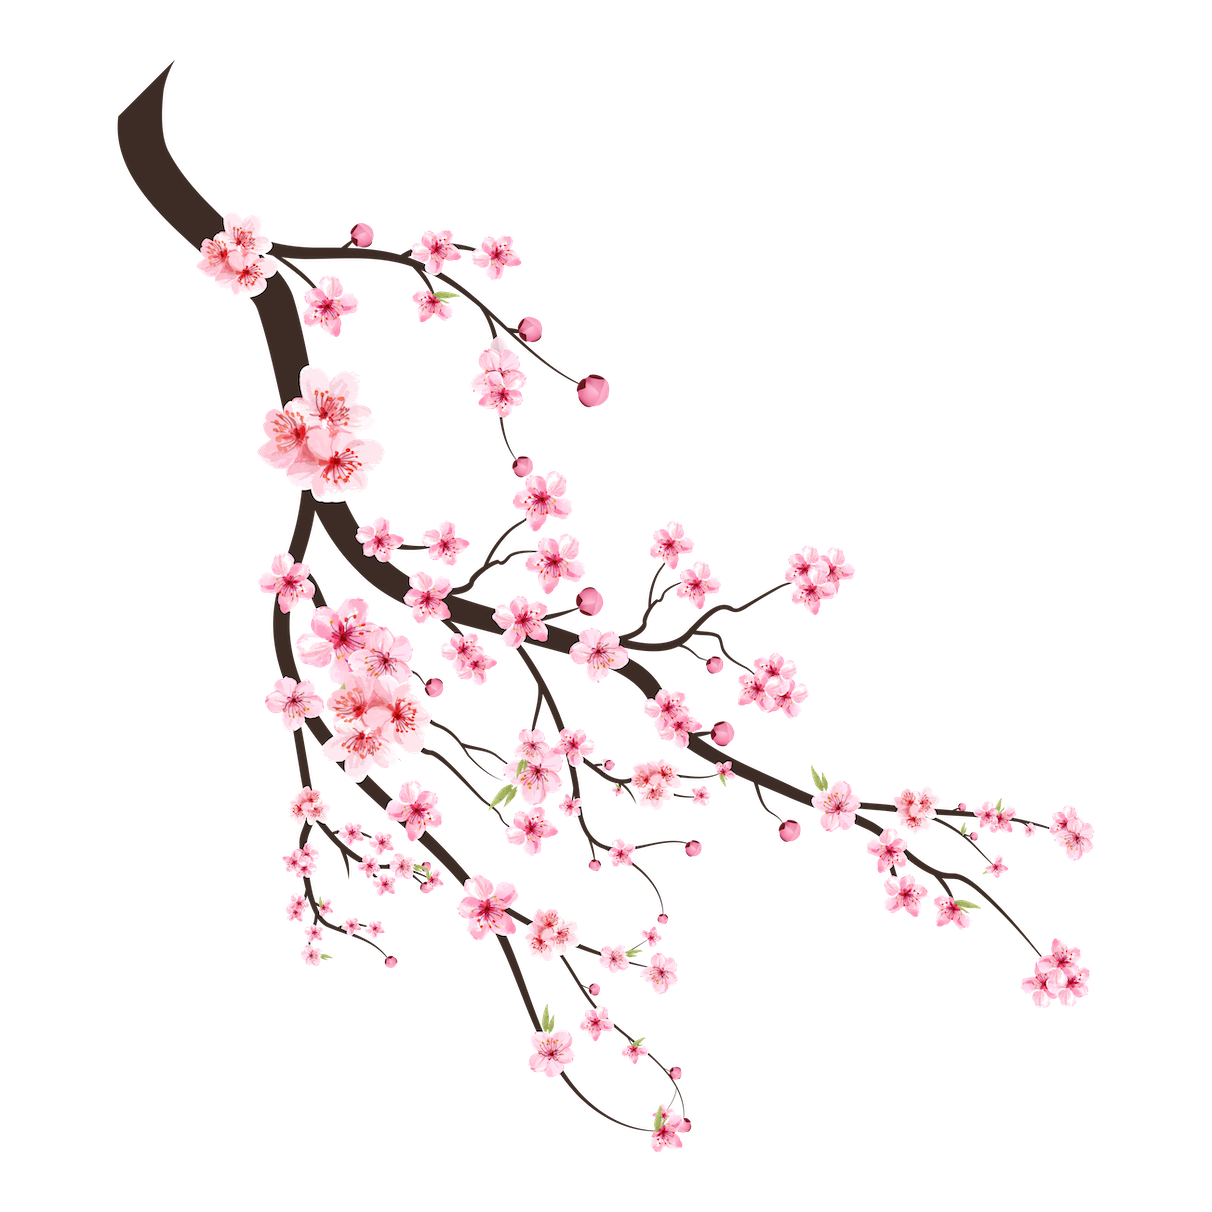
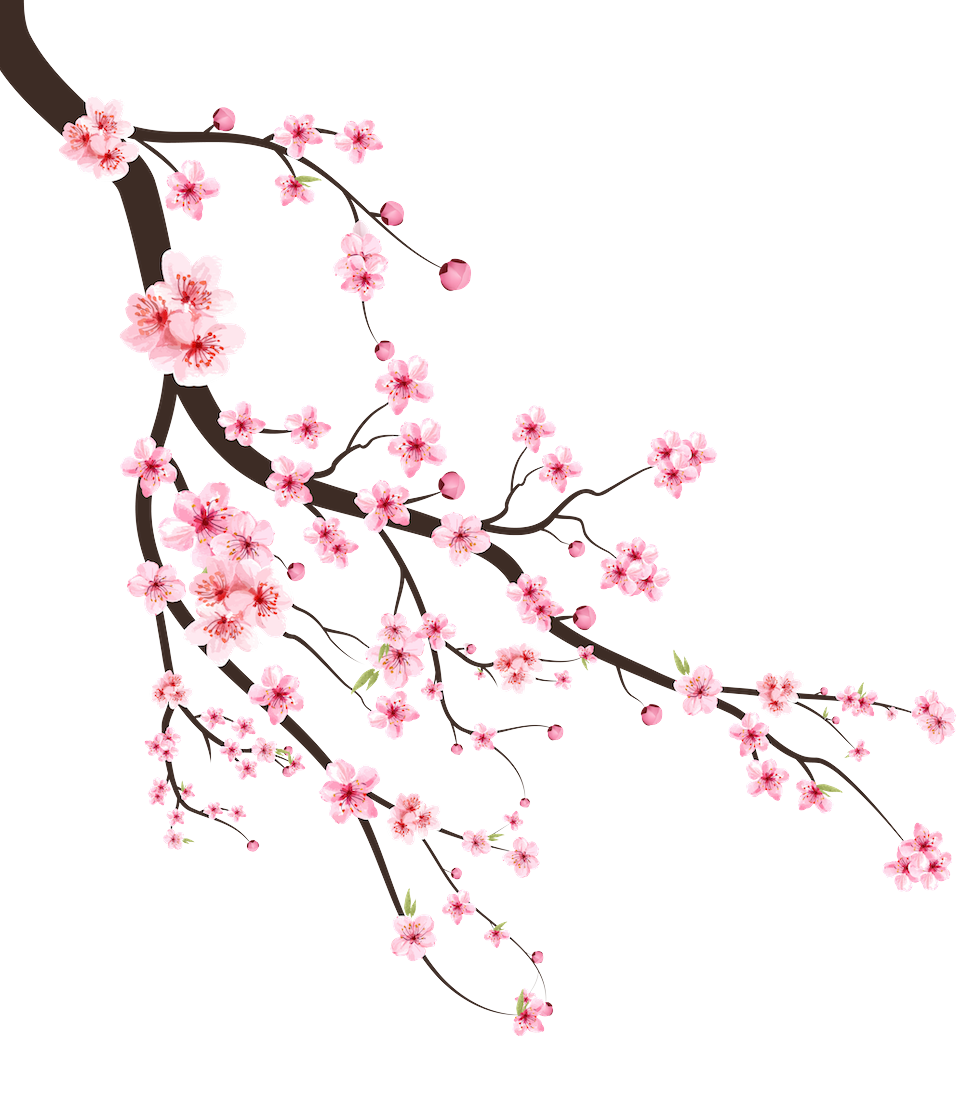
feat: change the stylization of branch positioning

Changed region(s): [[0.0, 0.0, 0.9979, 0.9617], [0.8467, 0.7445, 0.9979, 0.8376]]

diff --git a/nonograms/style.css b/nonograms/style.css
@@ -9,6 +9,7 @@ body {
 }
 
 body {
+  /* overflow: hidden; */
   position: relative;
   font-family: 'Dancing Script', cursive;
   background-color: var(--back-color);
@@ -32,7 +33,7 @@ body {
   --font-color: #000000;
   --score-border: #c5c1c1;
   --overlay: #00000088;
-   --notif-back: #0000008c;
+  --notif-back: #0000008c;
 }
 
 .dark-theme {
@@ -62,19 +63,17 @@ body {
 }
 
 /* Images */
+.branches {
+  position: absolute;
+  top: 0;
+  width: 100%;
+  display: flex;
+  justify-content: space-between;
+}
+
 .branch {
   z-index: -1;
-  position: absolute;
   width: 35%;
-  top: -40px;
-}
-
-.branch-1 {
-  left: -60px;
-}
-
-.branch-2 {
-  right: -110px;
 }
 
 /* Header */
@@ -587,7 +586,8 @@ body {
 @keyframes slide-up {
   from {
     transform: translateY(50px);
-  } to {
+  }
+  to {
     transform: translateY(-30px);
   }
 }
@@ -774,16 +774,7 @@ body {
   font-size: 15px;
 }
 
-
 @media screen and (max-width: 1000px) {
-  .branch-1 {
-    left: -40px;
-  }
-  
-  .branch-2 {
-    right: -60px;
-  }
-
   .game-mode {
     align-self: center;
   }
@@ -802,14 +793,6 @@ body {
 }
 
 @media screen and (max-width: 750px) {
-  .branch-1 {
-    left: -10px;
-  }
-  
-  .branch-2 {
-    right: -40px;
-  }
-
   .modal {
     width: 90%;
   }
@@ -835,11 +818,6 @@ body {
 }
 
 @media screen and (max-width: 600px) {
-  .branch-1,
-  .branch-2 {
-    top: -20px;
-  }
-  
   .congrats {
     font-size: 30px;
   }
@@ -900,8 +878,8 @@ body {
 @media screen and (max-width: 450px) {
   .branch {
     width: 50%;
-    top: -30px;
   }
+
   .level-menu {
     width: 100%;
   }

diff --git a/nonograms/script.js b/nonograms/script.js
@@ -15,9 +15,10 @@ let pictureNumber;
 
 const themeMode = localStorage.getItem('theme');
 
-const branchesOne = create('img', 'branch-1 branch', body);
+const branches = create('div', 'branches', body);
+const branchesOne = create('img', 'branch', branches);
 branchesOne.src = './images/sakura-left.png';
-const branchesTwo = create('img', 'branch-2 branch', body);
+const branchesTwo = create('img', 'branch', branches);
 branchesTwo.src = './images/sakura-right.png';
 
 const backAudio = create('audio', 'back-audio', body);
@@ -71,7 +72,7 @@ theme.addEventListener('click', () => {
   if (document.documentElement.classList.contains('light-theme')) {
     document.documentElement.className = 'dark-theme';
     localStorage.setItem('theme', 'dark');
-    if (document.documentElement.clientWidth > 600) {
+    if (document.documentElement.clientWidth > 514) {
       theme.style.transform = 'translateY(-35px)';
     } else {
       theme.style.transform = 'translateY(-30px)';
